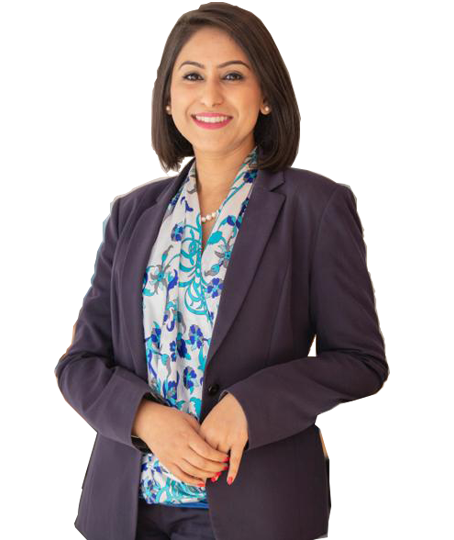
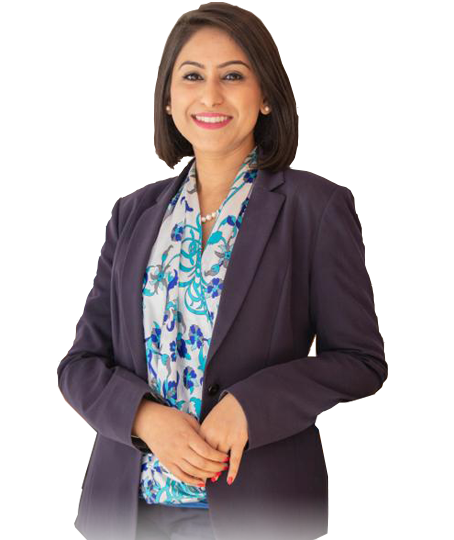
index and common page updated

diff --git a/index.php b/index.php
@@ -125,7 +125,7 @@
                         <!-- Slider Item -->
                         <div class="owl-item main_slider_item">
                             <!--<div class="main_slider_item_bg" style="background-image:url(images/main_slider_3.jpg)"></div>-->
-                            <div class="main_slider_shapes"><img src="images/bg/cheryl-02.jpg" alt="" style="width: 100% !important;"></div>
+                            <div class="main_slider_shapes"><img src="images/slider-png/cheryl-01.png" alt="" style="width: 100% !important;"></div>
                             <div class="container">
                                 <div class="row">
                                     <div class="col slider_content_col">
